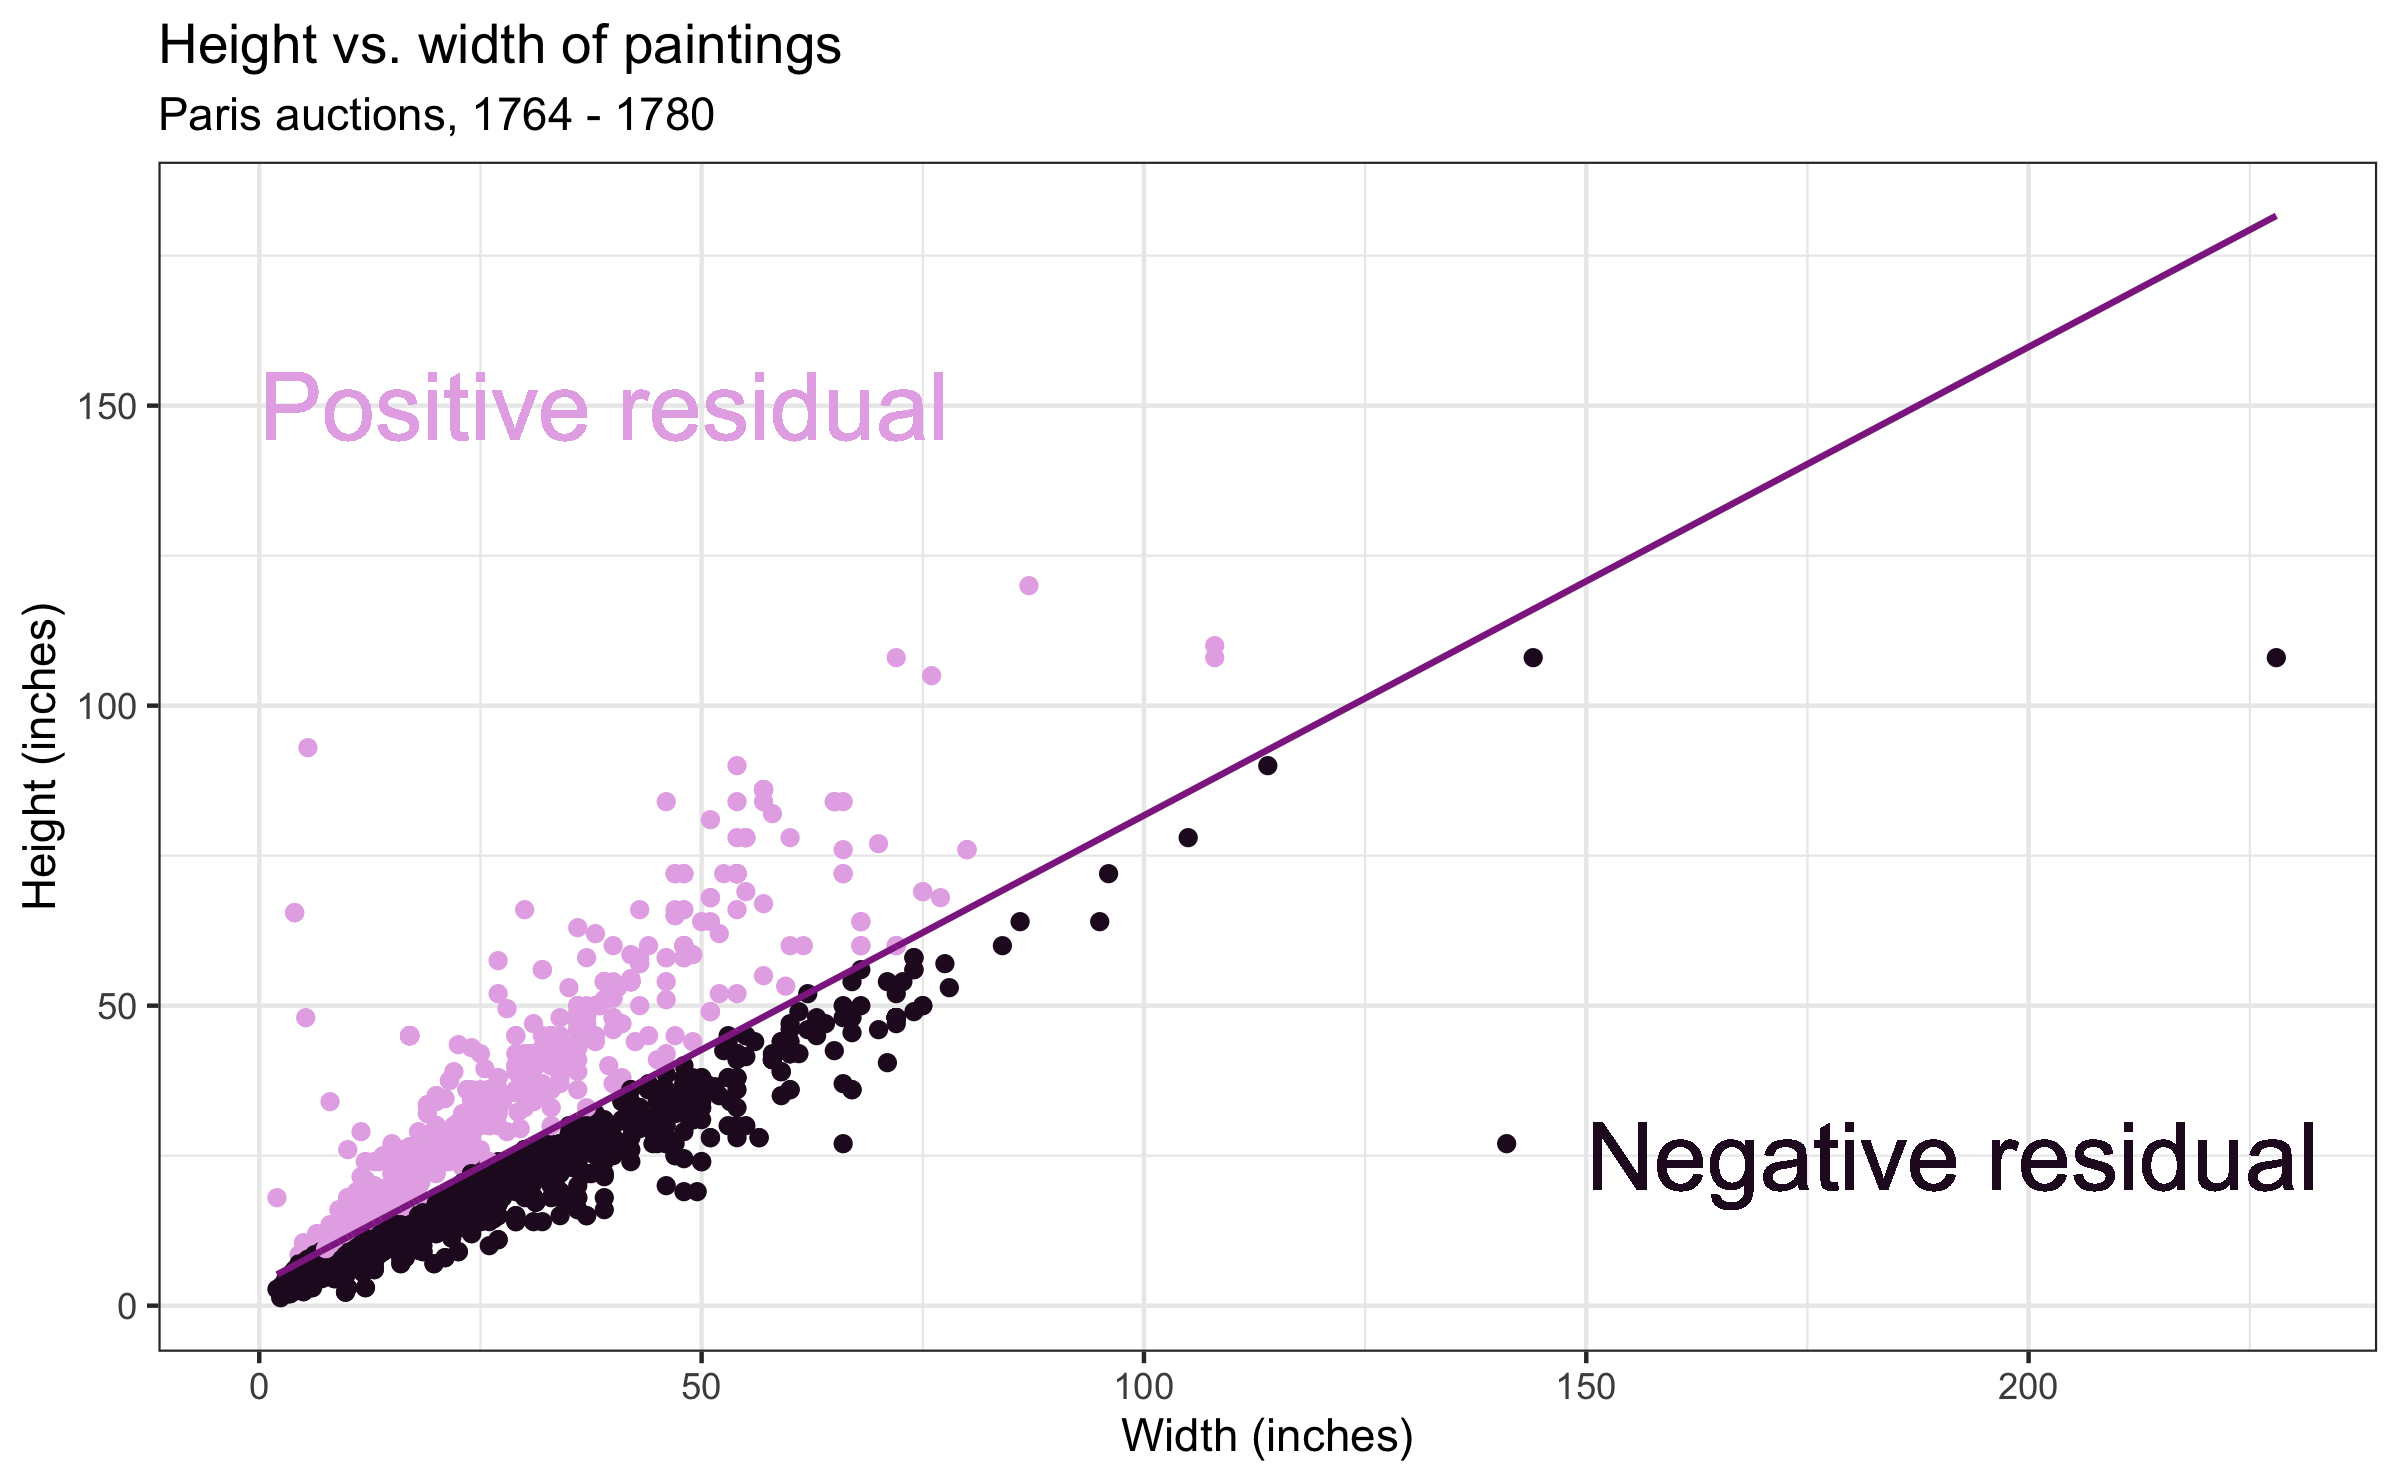
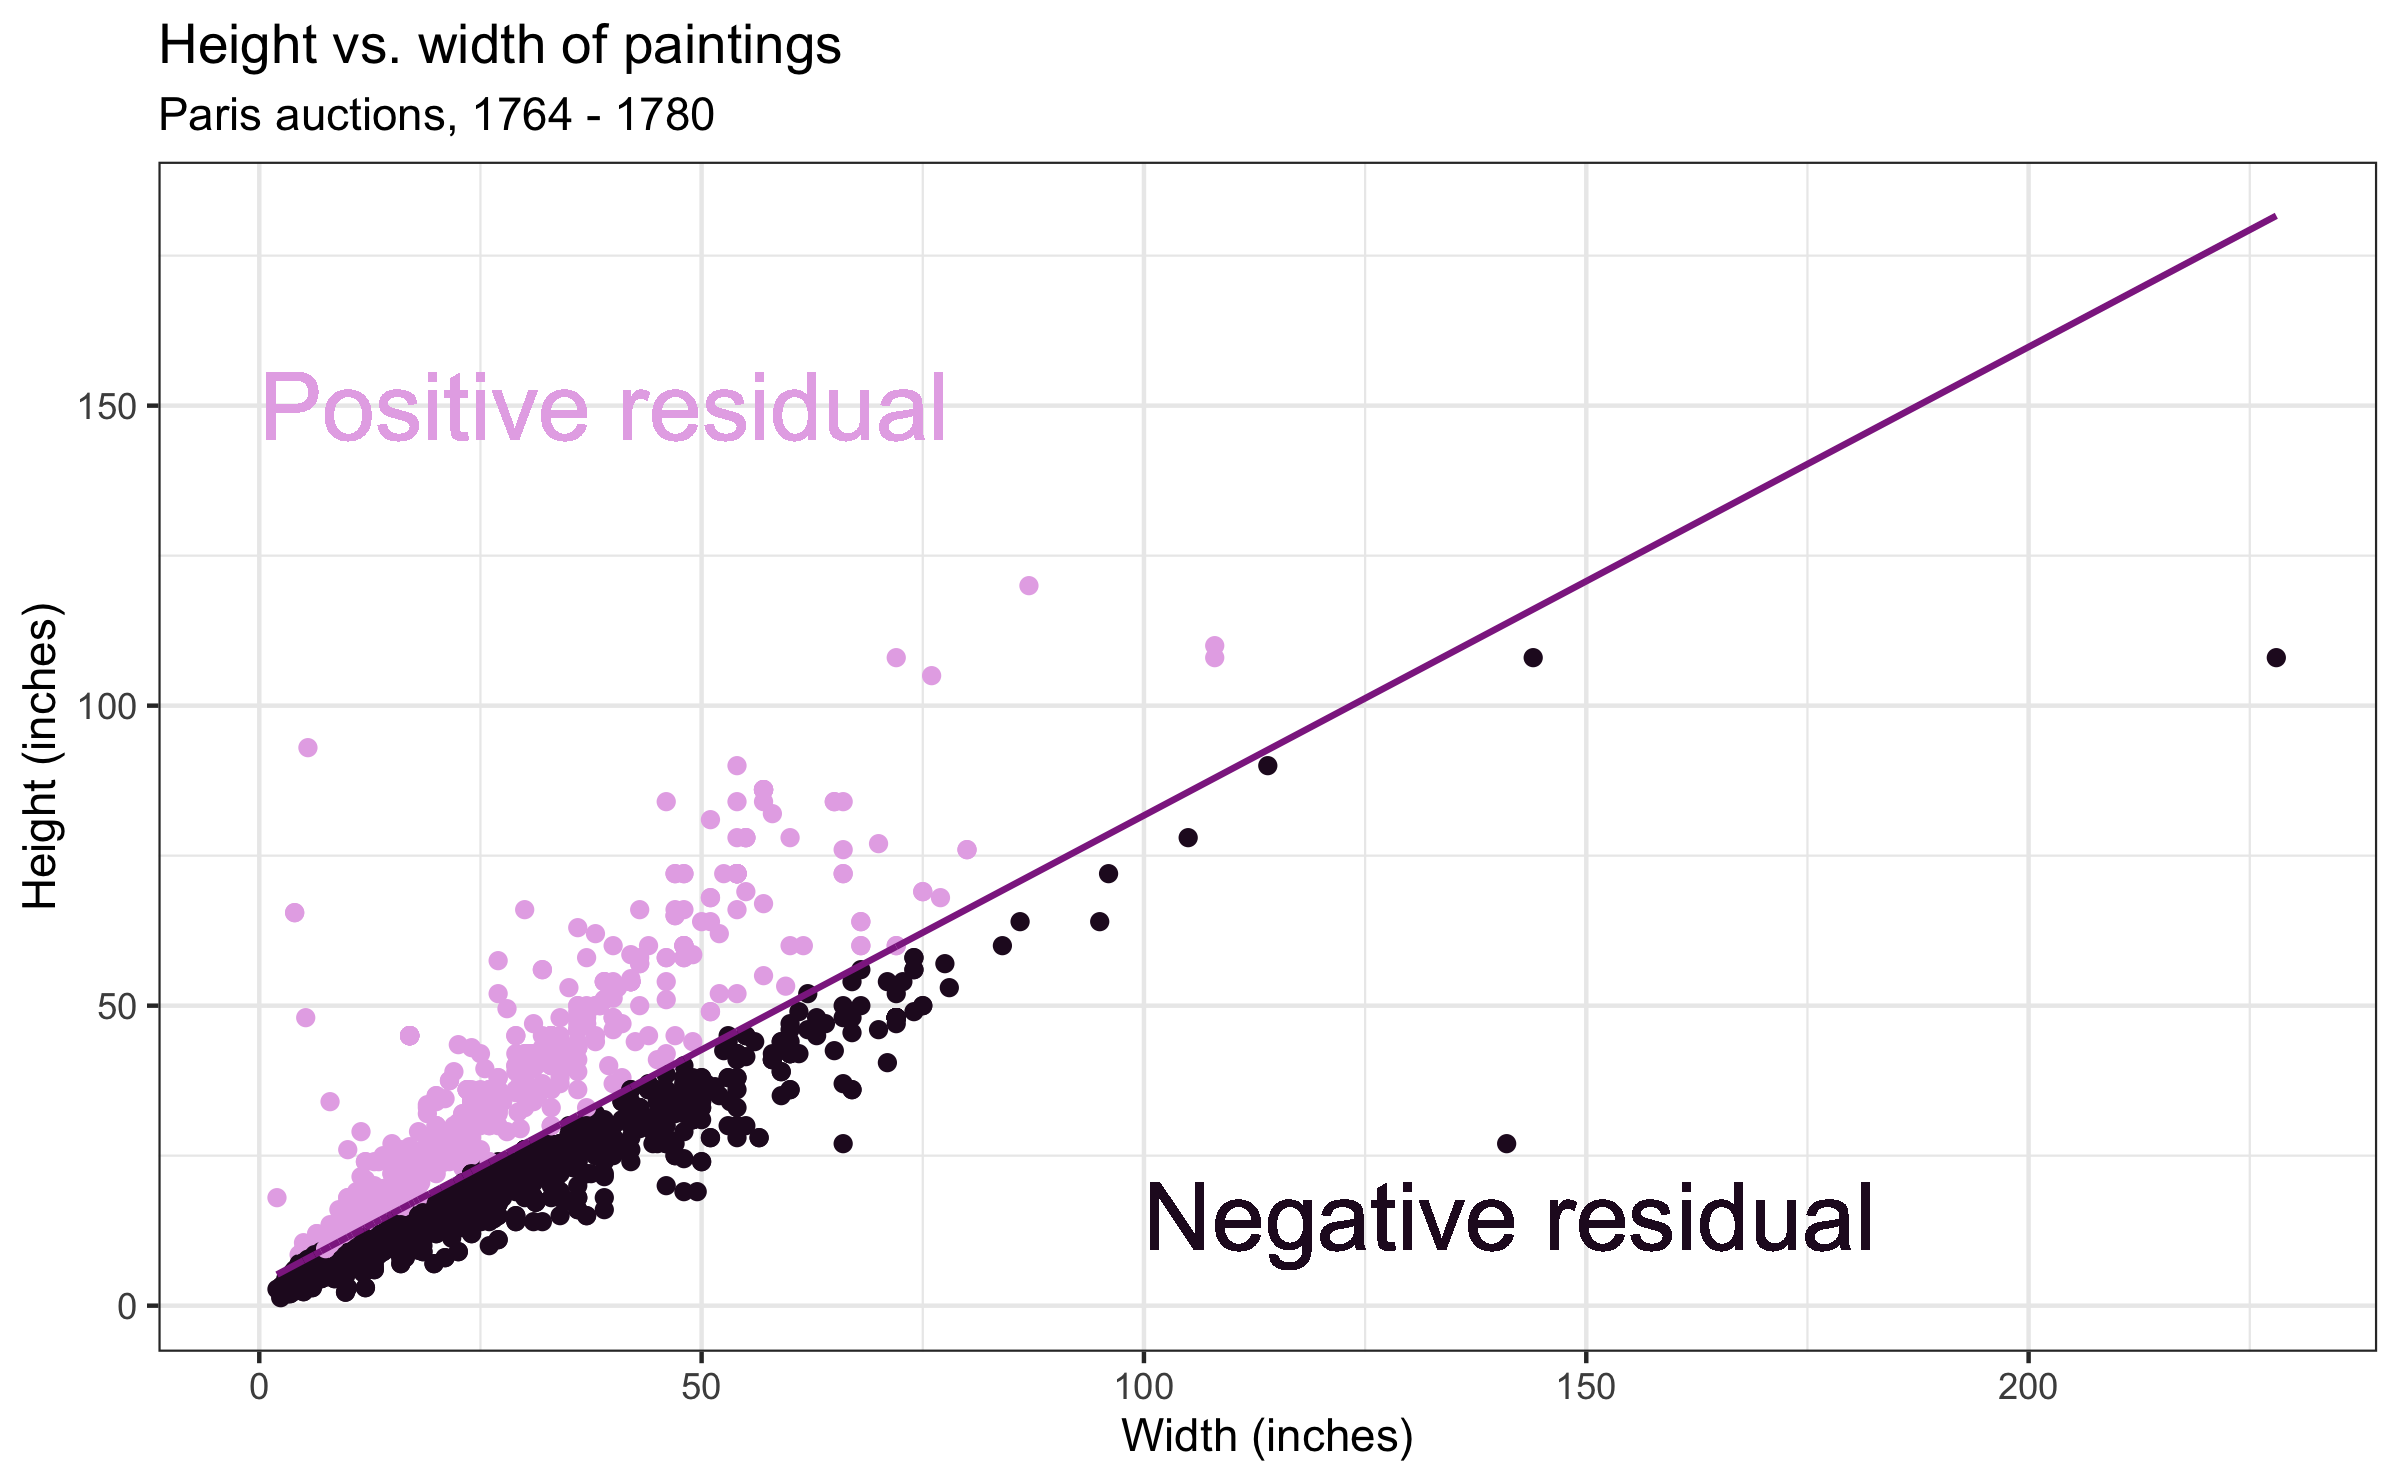
L12 updates

Changed region(s): [[0.4688, 0.7444, 0.9688, 0.8685]]

diff --git a/Lectures/L12_modeling_p1/L12_modeling_part_1.html b/Lectures/L12_modeling_p1/L12_modeling_part_1.html
@@ -19,7 +19,7 @@
     <script>window.xaringanExtraClipboard(null, {"button":"Copy Code","success":"Copied!","error":"Press Ctrl+C to Copy"})</script>
     <link href="libs/tile-view/tile-view.css" rel="stylesheet" />
     <script src="libs/tile-view/tile-view.js"></script>
-    <script type="application/json" id="xaringanExtra-editable-docid">{"id":"xe1bcb6beb7c4404a34095e7e1e8ced2","expires":14}</script>
+    <script type="application/json" id="xaringanExtra-editable-docid">{"id":"x657899b6120483c98f71f36d3b693ba","expires":14}</script>
     <script src="libs/himalaya/himalaya.js"></script>
     <script src="libs/js-cookie/js.cookie.js"></script>
     <link href="libs/editable/editable.css" rel="stylesheet" />
@@ -464,7 +464,7 @@ ggplot(data = ht_wt_fit_aug) +
   guides(color = FALSE) +
   scale_color_manual(values = c("#260b27", "#e6b0e7")) +
   geom_text(aes(x = 0, y = 150), label = "Positive residual", color = "#e6b0e7", hjust = 0, size = 8) +
-  geom_text(aes(x = 150, y = 25), label = "Negative residual", color = "#260b27", hjust = 0, size = 8) + 
+  geom_text(aes(x = 100, y = 15), label = "Negative residual", color = "#260b27", hjust = 0, size = 8) + 
   theme_bw()
 ```
 ]
@@ -632,6 +632,8 @@ linear_reg()
 
 ```
 ## Linear Regression Model Specification (regression)
+## 
+## Computational engine: lm
 ```
 
 ---
@@ -673,7 +675,7 @@ linear_reg() %&gt;%
 ```
 ## parsnip model object
 ## 
-## Fit time:  2ms 
+## Fit time:  3ms 
 ## 
 ## Call:
 ## stats::lm(formula = Height_in ~ Width_in, data = data)
@@ -691,7 +693,7 @@ linear_reg() %&gt;%
 ```
 ## parsnip model object
 ## 
-## Fit time:  2ms 
+## Fit time:  1ms 
 ## 
 ## Call:
 ## stats::lm(formula = Height_in ~ Width_in, data = data)
@@ -718,11 +720,11 @@ linear_reg() %&gt;%
 ```
 
 ```
-## # A tibble: 2 x 5
+## # A tibble: 2 × 5
 ##   term        estimate std.error statistic  p.value
 ##   &lt;chr&gt;          &lt;dbl&gt;     &lt;dbl&gt;     &lt;dbl&gt;    &lt;dbl&gt;
 ## 1 (Intercept)    3.62    0.254        14.3 8.82e-45
-## 2 Width_in       0.781   0.00950      82.1 0.
+## 2 Width_in       0.781   0.00950      82.1 0
 ```
 
 .large[
@@ -845,7 +847,7 @@ class: middle
 .small[
 
 ```
-## # A tibble: 3,393 x 3
+## # A tibble: 3,393 × 3
 ##    name      Height_in landsALL
 ##    &lt;chr&gt;         &lt;dbl&gt;    &lt;dbl&gt;
 ##  1 L1764-2          37        0
@@ -890,10 +892,10 @@ linear_reg() %&gt;%
 ```
 
 ```
-## # A tibble: 2 x 5
+## # A tibble: 2 × 5
 ##   term              estimate std.error statistic  p.value
 ##   &lt;chr&gt;                &lt;dbl&gt;     &lt;dbl&gt;     &lt;dbl&gt;    &lt;dbl&gt;
-## 1 (Intercept)          22.7      0.328      69.1 0.      
+## 1 (Intercept)          22.7      0.328      69.1 0       
 ## 2 factor(landsALL)1    -5.65     0.532     -10.6 7.97e-26
 ```
 
@@ -936,10 +938,10 @@ linear_reg() %&gt;%
 ```
 
 ```
-## # A tibble: 7 x 5
+## # A tibble: 7 × 5
 ##   term            estimate std.error statistic p.value
 ##   &lt;chr&gt;              &lt;dbl&gt;     &lt;dbl&gt;     &lt;dbl&gt;   &lt;dbl&gt;
-## 1 (Intercept)        14.        10.0     1.40  0.162  
+## 1 (Intercept)        14.0       10.0     1.40  0.162  
 ## 2 school_pntgD/FL     2.33      10.0     0.232 0.816  
 ## 3 school_pntgF       10.2       10.0     1.02  0.309  
 ## 4 school_pntgG        1.65      11.9     0.139 0.889  
@@ -950,14 +952,14 @@ linear_reg() %&gt;%
 
 ---
 
-## Dummy variables
+## binary variables
 
 
 ```
-## # A tibble: 7 x 5
+## # A tibble: 7 × 5
 ##   term            estimate std.error statistic p.value
 ##   &lt;chr&gt;              &lt;dbl&gt;     &lt;dbl&gt;     &lt;dbl&gt;   &lt;dbl&gt;
-## 1 (Intercept)        14.        10.0     1.40  0.162  
+## 1 (Intercept)        14.0       10.0     1.40  0.162  
 ## 2 school_pntgD/FL     2.33      10.0     0.232 0.816  
 ## 3 school_pntgF       10.2       10.0     1.02  0.309  
 ## 4 school_pntgG        1.65      11.9     0.139 0.889  
@@ -966,7 +968,7 @@ linear_reg() %&gt;%
 ## 7 school_pntgX        2.87      10.3     0.279 0.780
 ```
 
-- When the categorical explanatory variable has many levels, they're encoded to **dummy variables**
+- When the categorical explanatory variable has many levels, they're encoded to **binary variables**
 - Each coefficient describes the expected difference between heights in that particular school compared to the baseline level
 
 ---
@@ -1057,7 +1059,7 @@ linear_reg() %&gt;%
 .small[
 
 ```
-## # A tibble: 3,393 x 3
+## # A tibble: 3,393 × 3
 ##    name      Height_in school_pntg
 ##    &lt;chr&gt;         &lt;dbl&gt; &lt;chr&gt;      
 ##  1 L1764-2          37 F          
@@ -1092,10 +1094,10 @@ linear_reg() %&gt;%
 .small[
 
 ```
-## # A tibble: 7 x 5
+## # A tibble: 7 × 5
 ##   term            estimate std.error statistic p.value
 ##   &lt;chr&gt;              &lt;dbl&gt;     &lt;dbl&gt;     &lt;dbl&gt;   &lt;dbl&gt;
-## 1 (Intercept)        14.        10.0     1.40  0.162  
+## 1 (Intercept)        14.0       10.0     1.40  0.162  
 ## 2 school_pntgD/FL     2.33      10.0     0.232 0.816  
 ## 3 school_pntgF       10.2       10.0     1.02  0.309  
 ## 4 school_pntgG        1.65      11.9     0.139 0.889  
@@ -1133,7 +1135,7 @@ glance(lin_fit_height_v_width)
 ```
 
 ```
-## # A tibble: 1 x 12
+## # A tibble: 1 × 12
 ##   r.squared adj.r.squared sigma statistic p.value    df  logLik
 ##       &lt;dbl&gt;         &lt;dbl&gt; &lt;dbl&gt;     &lt;dbl&gt;   &lt;dbl&gt; &lt;dbl&gt;   &lt;dbl&gt;
 ## 1     0.683         0.683  8.30     6749.       0     1 -11083.
@@ -1194,7 +1196,7 @@ yx_example
 ```
 
 ```
-## # A tibble: 100 x 2
+## # A tibble: 100 × 2
 ##        y     x
 ##    &lt;int&gt; &lt;int&gt;
 ##  1     1     5
@@ -1224,7 +1226,7 @@ fit_example
 ```
 ## parsnip model object
 ## 
-## Fit time:  2ms 
+## Fit time:  1ms 
 ## 
 ## Call:
 ## stats::lm(formula = y ~ x, data = data)
@@ -1279,7 +1281,7 @@ linear_reg() %&gt;%
 ```
 
 ```
-## [1] 0.9975227
+## [1] 0.9976654
 ```
 
 ---
@@ -1301,7 +1303,7 @@ linear_reg() %&gt;%
 ```
 
 ```
-## [1] 0.0006297344
+## [1] 0.00292956
 ```
 
 ---

diff --git a/Lectures/L12_modeling_p1/libs/panelset/panelset.css b/Lectures/L12_modeling_p1/libs/panelset/panelset.css
@@ -4,6 +4,7 @@
   width: 100%;
   position: relative;
   --panel-tabs-border-bottom: #ddd;
+  --panel-tabs-sideways-max-width: 25%;
   --panel-tab-foreground: currentColor;
   --panel-tab-background: unset;
   --panel-tab-active-foreground: currentColor;
@@ -67,6 +68,8 @@
   color: currentColor;
   text-decoration: none;
   border: none;
+  width: 100%;
+  height: 100%;
 }
 
 .panelset .panel-tabs .panel-tab > a:focus {
@@ -109,4 +112,116 @@
 
 .panelset .panel-active {
   display: block;
+}
+
+/* ---- Sideways Panelset ---- */
+
+@media (min-width: 480px) {
+  .panelset.sideways {
+    display: flex;
+    flex-direction: row;
+  }
+
+  .panelset.sideways .panel-tabs {
+    box-shadow: none;
+    flex-direction: column;
+    align-items: start;
+    margin: 0;
+    margin-right: 1em;
+    border-right: 2px solid var(--panel-tabs-border-bottom);
+    max-width: var(--panel-tabs-sideways-max-width);
+  }
+
+  .panelset.sideways .panel {
+    max-width: calc(100% - var(--panel-tabs-sideways-max-width) - 1em);
+  }
+
+  .panelset.sideways .panel-tabs .panel-tab {
+    border-top: unset;
+    border-bottom: unset;
+    padding-left: 0;
+  }
+
+  .panelset.sideways.right {
+    flex-direction: row-reverse;
+    justify-content: space-between;
+  }
+
+  .panelset.sideways.right {
+  	text-align: inherit;
+  }
+
+  .panelset.sideways.right .panel-tabs {
+    align-items: end;
+    margin-right: 0;
+    margin-left: 1em;
+    border-right: unset;
+    border-left: 2px solid var(--panel-tabs-border-bottom);
+  }
+
+  .panelset.sideways.right .panel-tabs .panel-tab {
+    padding-left: 1em;
+    width: 100%;
+  }
+
+  .panelset.sideways.right .panel-tabs .panel-tab a {
+    text-align: right;
+  }
+}
+
+/*
+  This next part repeats the same CSS inside the @media query above but with
+  remarkjs-specific classes to ensure that sideways panelsets are always used.
+  In the future, we could use @container queries instead once they're availble.
+*/
+
+.remark-container .panelset.sideways {
+  display: flex;
+  flex-direction: row;
+}
+
+.remark-container .panelset.sideways .panel-tabs {
+  box-shadow: none;
+  flex-direction: column;
+  align-items: start;
+  margin: 0;
+  margin-right: 1em;
+  border-right: 2px solid var(--panel-tabs-border-bottom);
+  max-width: var(--panel-tabs-sideways-max-width);
+}
+
+.remark-container .panelset.sideways .panel {
+  max-width: calc(100% - var(--panel-tabs-sideways-max-width) - 1em);
+}
+
+.remark-container .panelset.sideways .panel-tabs .panel-tab {
+  border-top: unset;
+  border-bottom: unset;
+  padding-left: 0;
+}
+
+.remark-container .panelset.sideways.right {
+  flex-direction: row-reverse;
+  justify-content: space-between;
+}
+
+.remark-container .panelset.sideways.right {
+	text-align: inherit;
+}
+
+.remark-container .panelset.sideways.right .panel-tabs {
+  align-items: end;
+  margin-right: 0;
+  margin-left: 1em;
+  border-right: unset;
+  border-left: 2px solid var(--panel-tabs-border-bottom);
+}
+
+.remark-container .panelset.sideways.right .panel-tabs .panel-tab {
+  padding-left: 1em;
+  width: 100%;
+}
+
+.remark-container .panelset.sideways.right .panel-tabs .panel-tab a {
+  text-align: right;
 }

diff --git a/Lectures/L12_modeling_p1/libs/panelset/panelset.js b/Lectures/L12_modeling_p1/libs/panelset/panelset.js
@@ -235,6 +235,7 @@
 
       const contents = panels.map(processPanelItem).filter(o => o !== null)
       const newPanelSet = reflowPanelSet(contents, idx)
+      newPanelSet.classList = panelset.classList
       panelset.parentNode.insertBefore(newPanelSet, panelset)
       panelset.parentNode.removeChild(panelset)
 
